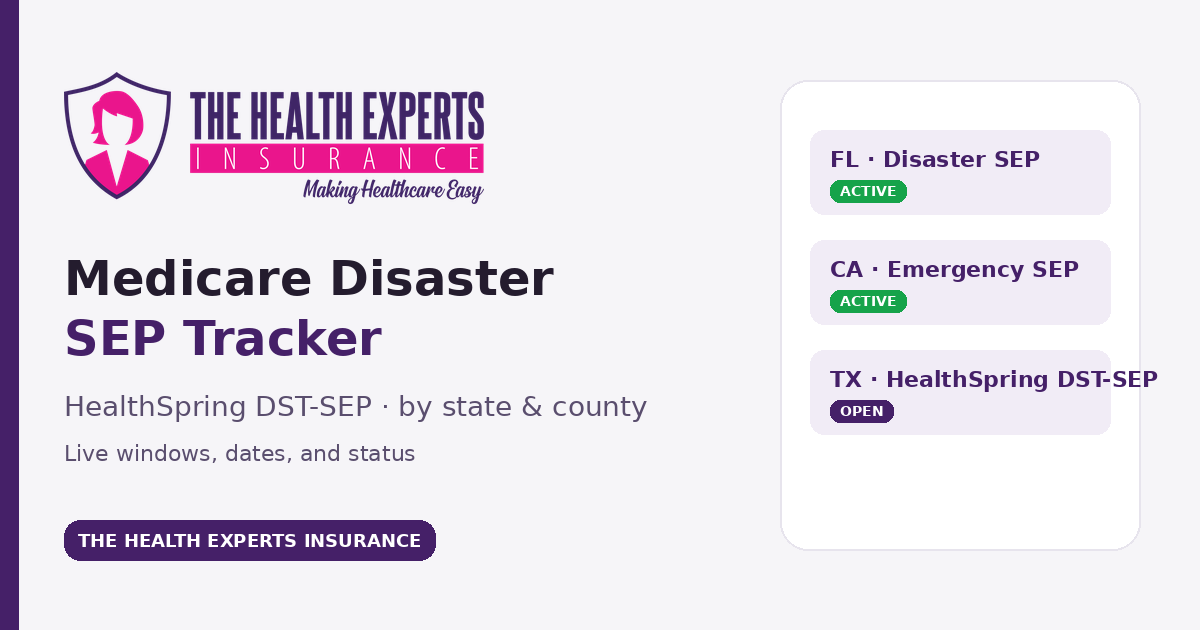
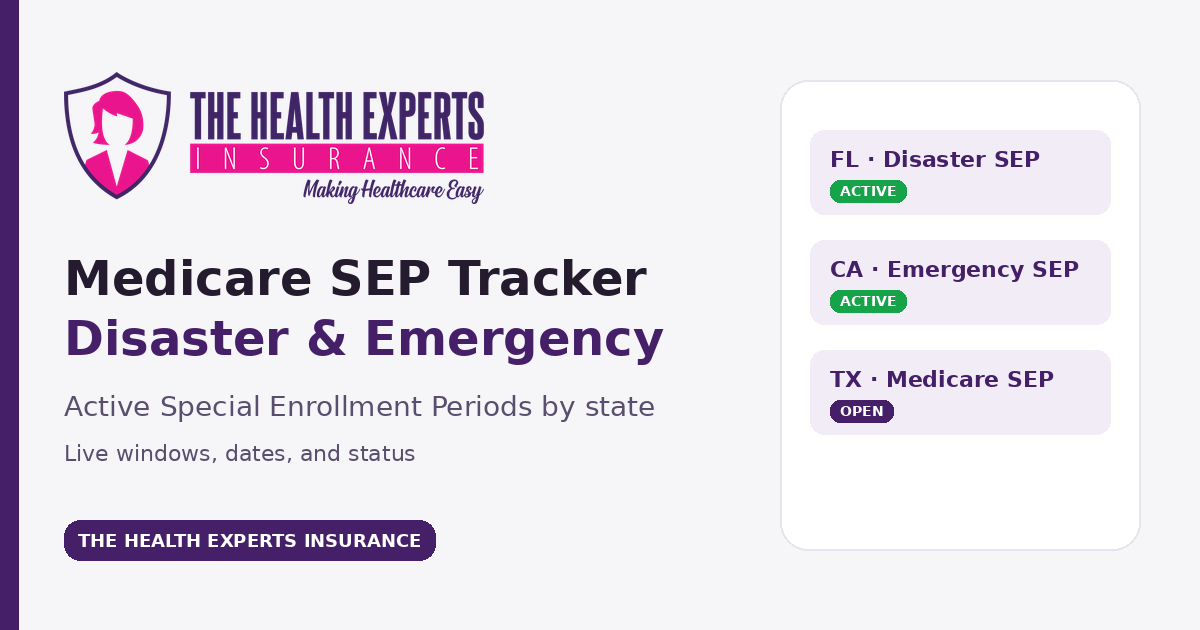
Fix SEP menu + Medicare SEP meta + OG image (#27)
* Retarget SEP Tracker SEO to Medicare SEP wording

Lead title, description, and OG share card with Medicare SEP /
disaster & emergency framing instead of HealthSpring DST-SEP.

* Align on-page SEP source labels with Medicare SEP SEO

Drop HealthSpring from the public chip/footer, use carrier DST-SEP
+ FEMA wording, and bust the iframe cache for the shell.

---------

diff --git a/pages/sep-tracker.html b/pages/sep-tracker.html
@@ -3,22 +3,22 @@
 <head>
 <meta charset="utf-8"/>
 <meta name="viewport" content="width=device-width,initial-scale=1"/>
-<title>Medicare Disaster SEP Tracker — HealthSpring DST-SEP by State | THEI</title>
-<meta name="description" content="Live Medicare disaster and emergency Special Enrollment Periods by state and county. Track HealthSpring DST-SEP windows, FEMA-related SEPs, start/end dates, and status — updated for agents and enrollment teams."/>
+<title>Medicare SEP Tracker — Disaster &amp; Emergency SEPs by State | THEI</title>
+<meta name="description" content="Live Medicare Special Enrollment Periods (SEPs) by state and county — disaster and emergency windows, start/end dates, and status. A quick reference for agents and enrollment teams."/>
 <meta name="robots" content="index,follow"/>
 <link rel="canonical" href="https://agentmedicarehub.com/sep-tracker"/>
 <meta property="og:type" content="website"/>
 <meta property="og:site_name" content="The Health Experts Insurance"/>
 <meta property="og:url" content="https://agentmedicarehub.com/sep-tracker"/>
-<meta property="og:title" content="Medicare Disaster SEP Tracker — HealthSpring DST-SEP by State"/>
-<meta property="og:description" content="Search active Medicare disaster SEPs by state or county. HealthSpring DST-SEP windows, FEMA-linked periods, dates, and status in one tracker."/>
+<meta property="og:title" content="Medicare SEP Tracker — Disaster &amp; Emergency SEPs by State"/>
+<meta property="og:description" content="Search active Medicare SEPs by state or county. Disaster and emergency enrollment windows, dates, and status in one tracker."/>
 <meta property="og:image" content="https://agentmedicarehub.com/sep-tracker-og.png"/>
 <meta property="og:image:width" content="1200"/>
 <meta property="og:image:height" content="630"/>
-<meta property="og:image:alt" content="Medicare Disaster SEP Tracker — HealthSpring DST-SEP by state"/>
+<meta property="og:image:alt" content="Medicare SEP Tracker — disaster and emergency SEPs by state"/>
 <meta name="twitter:card" content="summary_large_image"/>
-<meta name="twitter:title" content="Medicare Disaster SEP Tracker — HealthSpring DST-SEP by State"/>
-<meta name="twitter:description" content="Search active Medicare disaster SEPs by state or county. HealthSpring DST-SEP windows, dates, and status."/>
+<meta name="twitter:title" content="Medicare SEP Tracker — Disaster &amp; Emergency SEPs by State"/>
+<meta name="twitter:description" content="Search active Medicare SEPs by state or county. Disaster and emergency windows, dates, and status."/>
 <meta name="twitter:image" content="https://agentmedicarehub.com/sep-tracker-og.png"/>
 <style>
 *{box-sizing:border-box;margin:0;padding:0;}
@@ -104,7 +104,7 @@ iframe {
 </div>
 
 <iframe
-  src="/sep-tracker-app.html?v=20260823-agent-cta"
+  src="/sep-tracker-app.html?v=20260823-medicare-sep"
   onload="try{this.contentWindow.scrollTo(0,0)}catch(e){}"
   title="SEP Disaster Tracker"
   allow="fullscreen"

diff --git a/pages/sep-tracker-app.html b/pages/sep-tracker-app.html
@@ -477,7 +477,7 @@ table.sep-table { width:100%; border-collapse:collapse; font-size:var(--fs-body)
     <h1><span class="title-full">Medicare Special Enrollment Periods — Active by State</span><span class="title-short">Active SEPs by State</span></h1>
     <p class="hero-desc">Current emergency and disaster Medicare Special Enrollment Periods across U.S. states and territories. Search by state, county, or incident — then open any row for full details.</p>
     <div class="hero-meta">
-      <span class="chip chip-desktop-only">HealthSpring DST-SEP source</span>
+      <span class="chip chip-desktop-only">Carrier DST-SEP + FEMA source</span>
       <a class="chip" href="https://www.fema.gov/disaster/declarations" target="_blank" rel="noopener" title="Official FEMA disaster declarations">FEMA declarations</a>
       <span class="chip soft" id="hero-imported">August 21, 2026 &middot; 244 SEPs</span>
       <span class="chip soft chip-desktop-only">Free to view</span>
@@ -541,7 +541,7 @@ table.sep-table { width:100%; border-collapse:collapse; font-size:var(--fs-body)
   <div class="sources">
     Sources:
     <a href="https://www.fema.gov/disaster/declarations" target="_blank" rel="noopener">FEMA Disaster Declarations</a> ·
-    HealthSpring DST-SEP updates · CMS rules.
+    Carrier DST-SEP updates · FEMA · CMS rules.
     This page is a quick public reference and refreshes when you visit.
   </div>
 </div>

diff --git a/sep-tracker/index.html b/sep-tracker/index.html
@@ -477,7 +477,7 @@ table.sep-table { width:100%; border-collapse:collapse; font-size:var(--fs-body)
     <h1><span class="title-full">Medicare Special Enrollment Periods — Active by State</span><span class="title-short">Active SEPs by State</span></h1>
     <p class="hero-desc">Current emergency and disaster Medicare Special Enrollment Periods across U.S. states and territories. Search by state, county, or incident — then open any row for full details.</p>
     <div class="hero-meta">
-      <span class="chip chip-desktop-only">HealthSpring DST-SEP source</span>
+      <span class="chip chip-desktop-only">Carrier DST-SEP + FEMA source</span>
       <a class="chip" href="https://www.fema.gov/disaster/declarations" target="_blank" rel="noopener" title="Official FEMA disaster declarations">FEMA declarations</a>
       <span class="chip soft" id="hero-imported">August 21, 2026 &middot; 244 SEPs</span>
       <span class="chip soft chip-desktop-only">Free to view</span>
@@ -541,7 +541,7 @@ table.sep-table { width:100%; border-collapse:collapse; font-size:var(--fs-body)
   <div class="sources">
     Sources:
     <a href="https://www.fema.gov/disaster/declarations" target="_blank" rel="noopener">FEMA Disaster Declarations</a> ·
-    HealthSpring DST-SEP updates · CMS rules.
+    Carrier DST-SEP updates · FEMA · CMS rules.
     This page is a quick public reference and refreshes when you visit.
   </div>
 </div>
